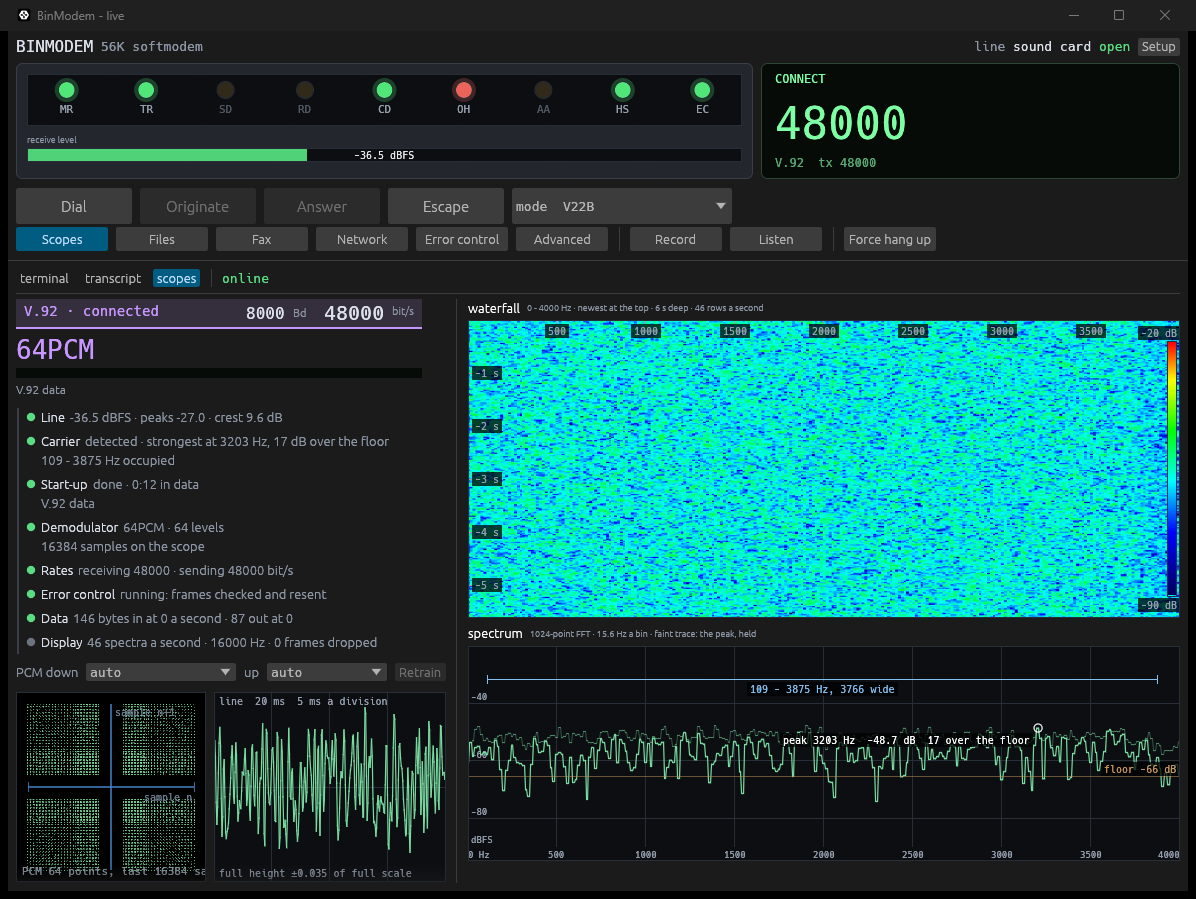
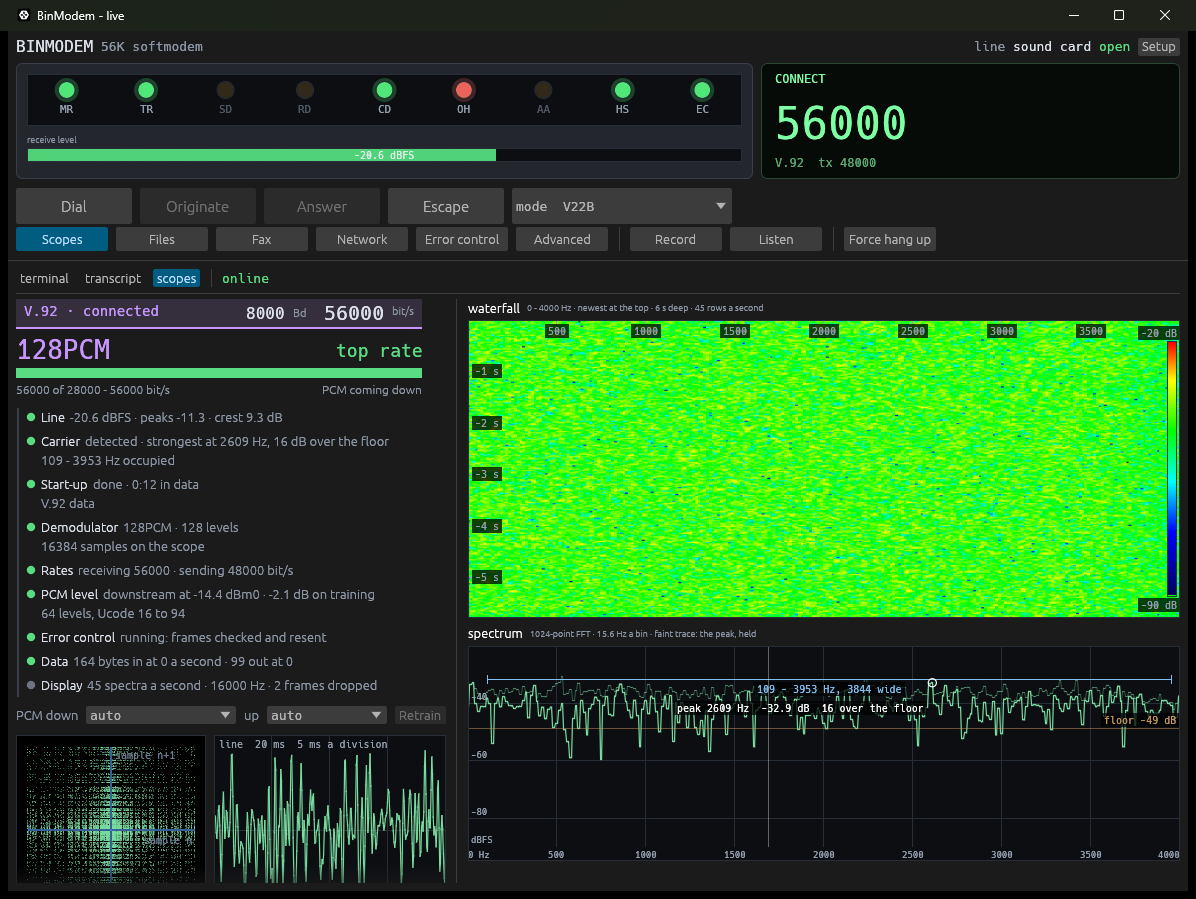
V.92: the downstream rate from the line, and phase 2's DPSK on the scope
- Left to itself a V.92 caller asked for 48000 down whatever the line, and
  56000 worked the moment it was pinned. With no DIL the one measurement of
  the downstream is how TRN1d trained the receiver: the CPu now asks for
  the fastest rate whose levels stand 4.5 sigma clear of that noise, less
  6 dB (analogue::fastest_down). 56000 on a line with nothing on it; a
  slow rate where the two-point fit reads low, as it does on a telephone
  line. The CPt, which Phase 4 trains on, stays at 48000.
- Phase 2 never put a symbol on the scope, for V.34 and V.90 either: the
  INFO receiver decided its bits and showed nothing. It now gives each
  symbol turned against the one before, which is what it decides on, from
  the strongest of its sampling instants.
- Constellations of two or four points are drawn large and solid. On a
  clean line every symbol lands on the same pixel, and a pixel on an axis
  line is a scope that looks empty.
- The release's pictures and notes are of the call as it now comes up:
  56000 down, 48000 up.

diff --git a/crates/datapump/src/v92/analogue.rs b/crates/datapump/src/v92/analogue.rs
@@ -358,6 +358,11 @@ pub struct Settings {
     /// What INFO1a bits 12:17 said this end's precoder and prefilter can hold
     /// (Table 18). A CPd asking for more is one this end cannot obey.
     pub limits: FilterLimits,
+    /// Whether the CPu's rate is to come from how well TRN1d trained this
+    /// end's receiver (see [`fastest_down`]), where [`Self::cpu`] names none:
+    /// the fastest [`cpt_for`] whose levels stand clear of the noise. Clear,
+    /// the CPu asks for what the CPt's own constellations carry.
+    pub rate_from_line: bool,
 }
 
 impl Settings {
@@ -379,8 +384,41 @@ impl Settings {
             law: Law::Mu,
             uinfo: UINFO,
             limits: FilterLimits::from_info1a(0, 0, 0),
+            rate_from_line: false,
         }
     }
+}
+
+/// Decibels taken off the trained receiver's figure before the downstream
+/// rate is chosen against it, and the standard deviations a level must stand
+/// from its nearest decision boundary (the upstream's `upchoice::MARGIN`).
+const DOWN_MARGIN_DB: f64 = 6.0;
+const DOWN_SIGMAS: f64 = 4.5;
+
+/// The fastest downstream rate, as its drn, whose [`cpt_for`] levels a
+/// receiver that trained on TRN1d at `snr_db` reads cleanly.
+///
+/// With no DIL this is the one measurement of the downstream there is. The
+/// fit is of two points at U_INFO, so what it leaves is the noise at that
+/// level, sigma = level(U_INFO) x 10^(-snr/20); a constellation is readable
+/// when its two closest levels -- the quietest pair, on a companded codec, or
+/// the two either side of nought -- are [`DOWN_SIGMAS`] of that from the
+/// boundary between them. On a line with nothing on it that is every rate up
+/// to 56 000. On a telephone line the two-point fit reads low, for the 4000
+/// Hz the line has not got, and the answer is a slow rate: a careful one,
+/// which a DIL would improve on and a guess would not.
+#[must_use]
+pub fn fastest_down(law: Law, uinfo: u8, snr_db: f64) -> u8 {
+    let sigma = ucode::level(law, uinfo) * 10f64.powf(-(snr_db - DOWN_MARGIN_DB) / 20.0);
+    (1..=DOWNSTREAM_RATES as u8)
+        .rev()
+        .find(|&drn| {
+            let levels: Vec<f64> = cpt_for(drn).points(0).iter().map(|&u| ucode::level(law, u)).collect();
+            let across_nought = 2.0 * levels.first().copied().unwrap_or(0.0);
+            let closest = levels.windows(2).map(|pair| pair[1] - pair[0]).fold(across_nought, f64::min);
+            closest / 2.0 >= DOWN_SIGMAS * sigma
+        })
+        .unwrap_or(1)
 }
 
 /// The CPt an end that asked for no DIL sends: 48 000 bit/s (drn 16) on
@@ -1630,8 +1668,20 @@ impl Modem {
         let jd = self.far_jd;
         let enabled = |drn: u8| jd.is_none_or(|jd| jd.enables(drn));
         let carries = |cp: &Cp| CodeMapping::from_cp(cp).is_some_and(|mapping| mapping.valid());
-        let asked = self.settings.cpu.is_some();
-        let mut cpu = self.settings.cpu.clone().unwrap_or_else(|| self.settings.cpt.clone());
+        // With nothing asked for and the line to go by, the rate is the
+        // fastest its noise allows and the constellation the one for that
+        // rate; the CPt's stays what Phase 4 is trained on (V.90 8.6.5).
+        let measured = (self.settings.cpu.is_none() && self.settings.rate_from_line).then(|| {
+            let snr = self.rx.snr_db();
+            let drn = fastest_down(self.settings.law, self.settings.uinfo, snr);
+            self.notes.push(format!(
+                "TRN1d trained at {snr:.0} dB: downstream {} bit/s",
+                crate::v90::sequences::data_rate(drn).unwrap_or(0)
+            ));
+            cpt_for(drn)
+        });
+        let asked = self.settings.cpu.is_some() || measured.is_some();
+        let mut cpu = measured.or_else(|| self.settings.cpu.clone()).unwrap_or_else(|| self.settings.cpt.clone());
         cpu.data_mode = true; // Table 23 bits 19:20: "CPu denoted by 1"
         cpu.acknowledge = false;
         cpu.a_law = matches!(self.settings.law, Law::A); // bit 35
@@ -3929,5 +3979,28 @@ mod phase4_tests {
         let cpu = call.far.cpus()[0].1.clone();
         assert_eq!((cpu.drn, &cpu.constellations), (22, &data.constellations), "the CPu is the data half of the choice");
         assert_eq!(call.modem.status(), Status::Connected { downstream: 56_000, upstream: 24_000 });
+    }
+}
+
+#[cfg(test)]
+mod rate_tests {
+    use super::*;
+
+    /// The downstream rate taken from the trained receiver: everything on a
+    /// line with nothing on it, less as the fit gets worse and never more,
+    /// and the slowest rate rather than none when nothing stands clear.
+    #[test]
+    fn the_downstream_rate_follows_how_well_trn1d_trained() {
+        assert_eq!(fastest_down(Law::Mu, UINFO, 79.5), DOWNSTREAM_RATES as u8);
+        assert_eq!(fastest_down(Law::Mu, UINFO, 13.0), 1);
+        let mut last = DOWNSTREAM_RATES as u8;
+        let mut seen = std::collections::BTreeSet::new();
+        for snr in (10..=80).rev() {
+            let drn = fastest_down(Law::Mu, UINFO, f64::from(snr));
+            assert!(drn <= last, "{snr} dB asks for drn {drn} after {last}");
+            last = drn;
+            seen.insert(drn);
+        }
+        assert!(seen.len() > 4, "only {seen:?} between 10 and 80 dB");
     }
 }

diff --git a/crates/datapump/src/v34/dpsk.rs b/crates/datapump/src/v34/dpsk.rs
@@ -289,6 +289,14 @@ const PHASES: usize = 8;
 /// indifferent to.
 const FILL_HEARD: usize = 2;
 
+/// Where on the scope's unit box a clean DPSK symbol is drawn, how much of
+/// the strongest instant's hold is left a sample later, and what counts as a
+/// symbol at all: a share of the channel's smoothed level, and a level.
+const SCOPE_RADIUS: f64 = 0.8;
+const SCOPE_HOLD: f64 = 0.97;
+const SCOPE_AUDIBLE: f64 = 0.5;
+const SCOPE_FLOOR: f64 = 1e-4;
+
 /// One way of sampling the stream: an instant within the symbol, and the bits
 /// that instant has decided.
 #[derive(Debug, Clone)]
@@ -332,6 +340,10 @@ pub struct Receiver {
     level_step: f64,
     /// What is looked for beyond a full V.34 or V.90 phase 2.
     expecting: Expecting,
+    /// The last symbol against the one before it, for a scope, and how strong
+    /// the sampling instant that gave it was (see [`Self::scope_point`]).
+    scope: Option<(f64, f64)>,
+    scope_strength: f64,
 }
 
 /// What a receiver listens for beyond the sequences of a full V.34 or V.90
@@ -388,6 +400,8 @@ impl Receiver {
             level: 0.0,
             level_step: 1.0 - (-1.0 / (0.020 * fs)).exp(),
             expecting: Expecting::default(),
+            scope: None,
+            scope_strength: 0.0,
         }
     }
 
@@ -431,6 +445,16 @@ impl Receiver {
 
     /// Feed one line sample. Yields a sequence the moment its CRC checks -- or
     /// an INFO0 in half-duplex a little after (`FILL_HEARD`).
+    /// The last symbol set against the one before it, for a scope: differential
+    /// phase shift keying has no absolute phase to plot, so what is drawn is
+    /// what is decided on -- near (+r, 0) for a symbol that did not turn and
+    /// (-r, 0) for one that did, a 0 and a 1, with the line's noise as the
+    /// spread about them. An unmodulated Tone A or B sits at +r, and its
+    /// phase reversal is one point at -r. `None` until something has arrived.
+    pub fn scope_point(&self) -> Option<(f64, f64)> {
+        self.scope
+    }
+
     pub fn feed(&mut self, sample: f64) -> Option<Info> {
         let (cos, sin) = self.nco.step();
         let selected = self.select.process((sample * cos, sample * -sin));
@@ -450,6 +474,20 @@ impl Receiver {
                     previous.1 + mu * (filtered.1 - previous.1),
                 );
                 branch.next += self.sps;
+                // For a scope: this symbol turned against the last, which is
+                // what the decision below is made on. Of the instants being
+                // tried, the one nearest the middle of the symbol has the
+                // most of it, so the strongest lately is the one shown.
+                let (re, im) = branch.previous_symbol;
+                let strength = ((at.0 * at.0 + at.1 * at.1) * (re * re + im * im)).sqrt();
+                self.scope_strength *= SCOPE_HOLD;
+                if strength >= self.scope_strength && strength.sqrt() > SCOPE_AUDIBLE * self.level && self.level > SCOPE_FLOOR {
+                    self.scope_strength = strength;
+                    self.scope = Some((
+                        SCOPE_RADIUS * (at.0 * re + at.1 * im) / strength,
+                        SCOPE_RADIUS * (at.1 * re - at.0 * im) / strength,
+                    ));
+                }
                 if found.is_none() {
                     found = decide(branch, at, self.side, self.half_duplex, self.expecting);
                 }

diff --git a/crates/modem/tests/v92_call.rs b/crates/modem/tests/v92_call.rs
@@ -199,14 +199,16 @@ fn rates(pair: &Pair) -> (u32, u32) {
     (pair.caller.rate().unwrap_or(0), pair.caller.transmit_rate().unwrap_or(0))
 }
 
-/// On a line with nothing on it but the two modems, the server measures as
+/// On a line with nothing on it but the two modems, each end measures as much
+/// and takes the top of its ladder: the caller reads it off how TRN1d trained
+/// its receiver, and asks for 56 000 down; the server measures as
 /// much while the caller is silent under TRN1d, and asks for the top of 6.1's
 /// ladder rather than the bottom.
 #[test]
 fn a_quiet_line_gets_the_fastest_upstream() {
     let mut pair = v92_pair();
     let notes = connect(&mut pair, 40);
-    assert_eq!(rates(&pair), (48_000, 48_000), "{notes}");
+    assert_eq!(rates(&pair), (56_000, 48_000), "{notes}");
     carries_text(&mut pair, "the top rung", &notes);
 }
 
@@ -224,7 +226,7 @@ fn a_pinned_rate_is_the_rate_the_call_gets() {
         }
         let notes = connect(&mut pair, 40);
         let wanted_up = (u32::from(up) + 17) * 8000 / 6;
-        let wanted_down = down.map_or(48_000, |drn| (u32::from(drn) + 20) * 8000 / 6);
+        let wanted_down = down.map_or(56_000, |drn| (u32::from(drn) + 20) * 8000 / 6);
         assert_eq!(rates(&pair), (wanted_down, wanted_up), "{who} pinned {up} up, {down:?} down\n{notes}");
         carries_text(&mut pair, &format!("{who} pinned {up} up, {down:?} down"), &notes);
     }
@@ -242,7 +244,7 @@ fn a_rate_chosen_during_a_call_retrains_to_it() {
         assert_eq!(chooser.choose_upstream(Some(7)), modem::RateChosen::Retraining(Some(7)), "{who}");
         pair.run(1.0);
         notes.push_str(&settle(&mut pair, 60));
-        assert_eq!(rates(&pair), (48_000, 32_000), "{who}\n{notes}");
+        assert_eq!(rates(&pair), (56_000, 32_000), "{who}\n{notes}");
         carries_text(&mut pair, who, &notes);
     }
 }
@@ -258,6 +260,6 @@ fn v8_bis_in_front_of_a_v92_call() {
     pair.run(0.05);
     let notes = connect(&mut pair, 50);
     assert!(notes.contains("V.8 bis"), "no V.8 bis on the line:\n{notes}");
-    assert_eq!(rates(&pair), (48_000, 48_000), "{notes}");
+    assert_eq!(rates(&pair), (56_000, 48_000), "{notes}");
     carries_text(&mut pair, "after V.8 bis", &notes);
 }

diff --git a/crates/gui/src/scopes.rs b/crates/gui/src/scopes.rs
@@ -646,8 +646,13 @@ pub fn symbol_scope(
     // of thirty-two symbols would be almost invisible beside a V.34 cloud.
     let mut mesh = eframe::egui::Mesh::default();
     let crowded = m > 200;
-    let side = (radius / 180.0).clamp(1.0, 2.5) * if crowded { 1.0 } else { 1.7 };
-    let colour = Color32::from_rgba_unmultiplied(120, 220, 160, if crowded { 110 } else { 150 });
+    // Two or four points -- phase 2's DPSK, a training signal's four -- are a
+    // handful of places, and on a clean line every symbol lands on exactly
+    // the same pixel of each: a square a pixel or two across, on an axis
+    // line, is a scope that looks empty. Those are drawn large and solid.
+    let few = tones <= 4;
+    let side = if few { (radius / 14.0).clamp(5.0, 9.0) } else { (radius / 180.0).clamp(1.0, 2.5) * if crowded { 1.0 } else { 1.7 } };
+    let colour = Color32::from_rgba_unmultiplied(120, 220, 160, if few { 255 } else if crowded { 110 } else { 150 });
     for &(re, im) in constellation {
         mesh.add_colored_rect(Rect::from_center_size(at(re, im), vec2(side, side)), colour);
     }

diff --git a/crates/datapump/src/v34/startup.rs b/crates/datapump/src/v34/startup.rs
@@ -150,9 +150,13 @@ impl Modem {
         self.training.as_ref().is_some_and(training::Modem::carrier)
     }
 
-    /// The far end's last symbol, once phase 3 has trained the receiver.
+    /// The far end's last symbol: phase 2's DPSK, each symbol against the
+    /// one before, and from phase 3 on what the trained receiver decided on.
     pub fn constellation_point(&self) -> Option<(f64, f64)> {
-        self.training.as_ref().and_then(training::Modem::constellation_point)
+        match self.training.as_ref() {
+            Some(training) => training.constellation_point(),
+            None => self.phase2.scope_point(),
+        }
     }
 
     /// Points in the constellation the far end is read against, once phase 3

diff --git a/crates/datapump/src/v34/phase2.rs b/crates/datapump/src/v34/phase2.rs
@@ -727,6 +727,12 @@ impl Modem {
         self.tone_b_level
     }
 
+    /// The far end's last DPSK symbol against the one before it, for a scope
+    /// (see `dpsk::Receiver::scope_point`), while phase 2 is running.
+    pub fn scope_point(&self) -> Option<(f64, f64)> {
+        (self.status() == Status::Running).then(|| self.rx.scope_point()).flatten()
+    }
+
     /// The INFO1a asking for PCM upstream (Table 18/V.92), if one went or
     /// came. At most one of this and [`Self::info1a_pcm`] is ever set.
     pub fn info1a_pcm_up(&self) -> Option<Info1aPcmUp> {

diff --git a/crates/datapump/src/v90/startup.rs b/crates/datapump/src/v90/startup.rs
@@ -492,6 +492,8 @@ impl Analogue {
             settings.limits = FilterLimits::from_info1a(asked.sections, asked.ltot_code, asked.lmax_code);
             settings.round_trip = p2.round_trip().unwrap_or(0.0);
             settings.law = if server.a_law { Law::A } else { Law::Mu };
+            // Nobody chose a downstream rate: the line does.
+            settings.rate_from_line = self.pinned.is_none();
             self.notes.push(format!(
                 "V.92: PCM upstream (Table 18), U_INFO {}, {}-law",
                 asked.uinfo,

diff --git a/.github/release-notes.md b/.github/release-notes.md
@@ -15,15 +15,17 @@ binmodem.exe --capture        replay the golden capture
 
 ### V.92: PCM both ways
 
-- **A whole V.92 call between two of these modems.** `AT+MS=V92` at both ends, with `BINMODEM_V92_PCM_UP=1` set for both: V.8, phase 2 with V.92's INFO sequences, a Table 18 INFO1a, V.92's Phases 3 and 4, and data with PCM going *up* the line as well as down. Over a pair of virtual cables it connects first time at 48 000 down and 48 000 up, with V.42 and V.44 on top, and takes 56 000 down when asked.
+- **A whole V.92 call between two of these modems.** `AT+MS=V92` at both ends, with `BINMODEM_V92_PCM_UP=1` set for both: V.8, phase 2 with V.92's INFO sequences, a Table 18 INFO1a, V.92's Phases 3 and 4, and data with PCM going *up* the line as well as down. Over a pair of virtual cables it connects first time at 56 000 down and 48 000 up, with V.42 and V.44 on top.
 - **The server.** `AT+MS=V92` on the answering end is a V.92 digital modem: INFO0d's capability bits, PCM upstream offered in INFO1d, and the analogue modem's Ru, TRN1u, Ja, Su, CPt and E1u read and answered. The V.92 server was contributed by rgwan, and has taken a real Agere modem through Phase 3.
 - **The calling side, on a sound card.** The analogue modem reads the downstream one sample a symbol on the phase the server's Sd gives it, and sends its upstream through a transmitter that takes S-bar-u's half symbol and Jp's epsilon as the steps they are.
+- **The downstream rate is chosen from the line too.** With no DIL, what the caller has is how cleanly TRN1d trained its receiver: it asks for the fastest rate whose levels stand clear of that noise, 56 000 on a line with nothing on it and a slow, careful rate on one where the fit reads low.
 - **The upstream rate is chosen from the line.** The calling modem is silent while the server sends TRN1d, and what arrives then is the noise the upstream will have against it: the server asks for the fastest of 6.1's nineteen rates that stands clear of it. Behind a codec it stays at 24 000, which is where it used to stay always.
 - **A ladder to choose from.** The window has *PCM down* and *up* menus: any downstream rate from 28 000 to 56 000 and any upstream rate from 24 000 to 48 000, from either end. Chosen during a V.92 call, the line retrains to take it.
 - **The call card has V.92's figures.** The bar is the rate this end receives along the rates it could be sent at, and a *PCM level* row gives the downstream's power in dBm0 and which levels it is made of. PCM has no gain to turn, so the power is the constellation's: 32 levels spread over Ucodes 16 to 93 come to -14.6 dBm0.
+- **Phase 2's DPSK is on the scope**, for V.34 and V.90 as well: each INFO symbol set against the one before it, a 0 on one side and a 1 on the other. Constellations of two or four points are drawn large enough to see.
 - **Both scopes have something to draw.** PCM has no plane, so each symbol is set against the next: the calling end shows the downstream's grid, the answering end the upstream's.
 
-![The calling end of the same call: 64 levels coming down](https://raw.githubusercontent.com/CasualArclamp/BinModem/main/docs/images/releases/v4.0.0/v92-caller.png)
+![The calling end of the same call: 128 levels coming down at 56 000](https://raw.githubusercontent.com/CasualArclamp/BinModem/main/docs/images/releases/v4.0.0/v92-caller.png)
 
 ### V.8 bis
 
@@ -35,7 +37,7 @@ binmodem.exe --capture        replay the golden capture
 - **`binmodem --answer --stats`** prints the line's counters, the share of exact silence and the level each second, and **`--record <file>`** writes what arrived, which an ignored test replays into a fresh answerer: how a call that would not come up was found to be the window's own drive setting scaling the PCM upstream to nothing.
 - **The answering end's start-up is in its transcript** for V.92, a line a step, as the calling end's always was.
 
-The pictures are from a call between two instances over a pair of virtual audio cables, four-wire: no echo, no noise and no codec. 48 000 each way there is what the modems do on a clean line, not what a telephone route gives.
+The pictures are from a call between two instances over a pair of virtual audio cables, four-wire: no echo, no noise and no codec. 56 000 down and 48 000 up there is what the modems do on a clean line, not what a telephone route gives.
 
 ## Status
 
